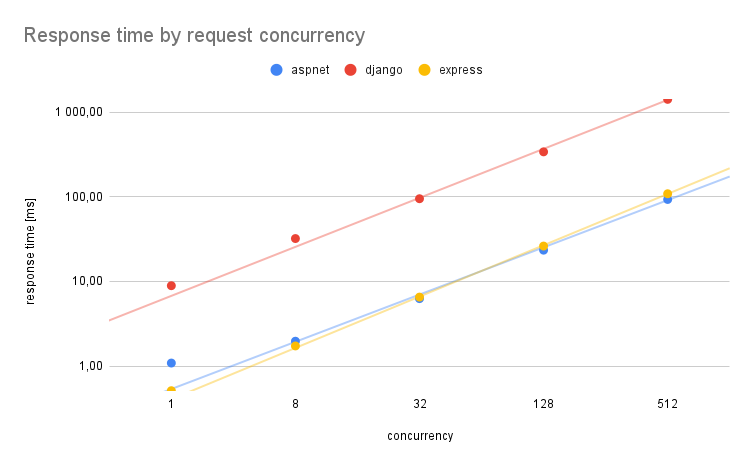
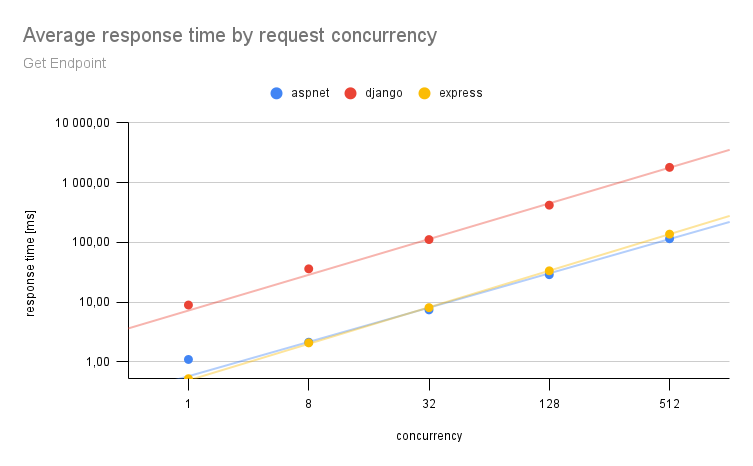
16.06

diff --git a/6Results.tex b/6Results.tex
@@ -4,28 +4,26 @@
 
 \section{Performance}
 
-WIP
+Graphs below (\ref{tab:resultsGet}, \ref{tab:resultsGetMany}, \ref{tab:resultsDelete}, \ref{tab:resultsPost} and \ref{tab:resultsPut}) show an average response time in miliseconds by number of concurrent \acrshort{vu}s from the tests mentioned in previous chapters. To better show the results of the tests, on vertical axis a logarithmic scale has been used, as Django had very long response times in comparison to other two frameworks. Under each graph there is a table with data used to draw the mentioned graphs - average response times rounded to second decimal place. As seen on the results, in cases with small amount concurrent requests Express.js application was the fastest. Starting from 32 \acrlong{vu}s for get requests, 128 for post and put requests and 512 for getMany ASP.NET Core has faster results. The trend line in all charts (except for delete tests, where ASP.NET is slower than express in all tests by from 8\% to 49\% depending on concurrency) shows that Express.js handles bigger loads worse than ASP.NET. In most tests Django stands out very far from the others, being even up to almost 17 times slower (for get tests with 8 concurrency) than the opponents. This framework surprised on getMany tests, where it was slower by only 15\% than the second best result - ASP.NET. 
 
-% Table \ref{tab:resultsFromFile} shows an average response time from the 10 tests mentioned in the previous chapters.
+\input{figures/resultsGet.tex}
+\input{tables/resultsGet.tex}
 
-% \input{figures/resultsDelete.tex}
-% \input{tables/resultsDelete.tex}
+\input{figures/resultsGetMany.tex}
+\input{tables/resultsGetMany.tex}
 
-% \input{figures/resultsGet.tex}
-% \input{tables/resultsGet.tex}
+\input{figures/resultsDelete.tex}
+\input{tables/resultsDelete.tex}
 
-% \input{figures/resultsGetMany.tex}
-% \input{tables/resultsGetMany.tex}
+\input{figures/resultsPost.tex}
+\input{tables/resultsPost.tex}
 
-% \input{figures/resultsPost.tex}
-% \input{tables/resultsPost.tex}
-
-% \input{figures/resultsPut.tex}
-% \input{tables/resultsPut.tex}
+\input{figures/resultsPut.tex}
+\input{tables/resultsPut.tex}
 
 \section{Security}
 \subsection{Security Misconfiguration}
-\subsubsection{Django}
+\subsubsection{Django specific variables}
 Django has one configuration file, generated automatically at the project creation. At the starting lines of settings.py a few important variables and comments are placed (listing \ref{lst:djangoSettings}).
 \input{listings/djangoSettings.tex}.
 As we can see, the creators of Django clearly want the developers to prevent some security vulnerabilities, by placing \lstinline{SECURITY WARNING} comments above two crucial variables - \lstinline{SECRET_KEY} and \lstinline{DEBUG}.
@@ -50,9 +48,10 @@ Django developers thought about it being a little secure in case of accidental l
     \item 'SIGNATURE'
     \item 'TOKEN'
 \end{itemize}
-% TODO show a screen where if(id === 10): admin = True
+% TODO show a screen where if(id === 10): admin = True 
+% coś jak to https://www.troyhunt.com/content/images/2016/02/848847image11.png
 
-Third important variable that cannot be forgotten is \lstinline{ALLOWED_HOSTS} (without \lstinline{SECURITY WARNING} comment, as it is set to an empty array by default). This variable is meant to be a list of strings presenting host names that Django can send responses to. If a given host is not on the list and tries to request a resource, response with status 400 is sent immediately. When \lstinline{DEBUG} is set to True and this variable is empty, the only way to reach the app is by requesting localhost.
+Third important variable that cannot be forgotten is \lstinline{ALLOWED_HOSTS} (without \lstinline{SECURITY WARNING} comment, as it is set to an empty array by default). This variable is meant to be a list of strings presenting host names that Django can send responses to. If a given host is not on the list and tries to request a resource, response with status 400 is sent immediately. When \lstinline{DEBUG} is set to True and this variable is empty, the only way to get response from the app is by requesting localhost.
 
 To help the developers, Django offers a command \lstinline{python3 manage.py check --deploy} command.
 \input{listings/djangoCheckDeploy.tex}
@@ -60,7 +59,21 @@ To help the developers, Django offers a command \lstinline{python3 manage.py che
 % python3 manage.py check --deploy
 % https://hdivsecurity.com/owasp-security-misconfiguration
 \subsubsection{ASP.NET}
-\subsubsection{Express.js}
+
+Just like Django, ASP.NET can leak sensitive data placed in code with its default error handling.
+
+% TODO prepare a screen and write about it https://www.troyhunt.com/owasp-top-10-for-net-developers-part-6/
+
+\subsubsection{Common}
+\begin{itemize}
+    \item Use newest versions
+    % https://snyk.io/vuln/
+    \item Don't configure to run as root
+    \item limit request body size
+    \item tls/ssl
+    % https://nodegoat.herokuapp.com/tutorial/a5
+\end{itemize}
+
 \subsection{Injection}
 \subsubsection{Django}
 \subsubsection{ASP.NET}

diff --git a/tables/resultsGetMany.tex b/tables/resultsGetMany.tex
@@ -1,14 +1,14 @@
 \FloatBarrier
 \begin{table}[!htp]\centering
-    \caption{Average p(95) response time in tests}\label{tab:resultsGetMany}
+    \caption{Numeric results from get many tests}\label{tab:resultsGetMany}
     \scriptsize
     \begin{tabular}{lrrrrr}\toprule
         test    & concurrency & aspnet & django    & express \\\midrule
-        getMany & 1           & 47.75  & 54.77     & 10.37   \\
-        getMany & 8           & 42.03  & 267.56    & 11.72   \\
-        getMany & 32          & 62.94  & 979.83    & 25.03   \\
-        getMany & 128         & 112.69 & 3,897.61  & 69.38   \\
-        getMany & 512         & 273.04 & 15,952.84 & 252.17  \\
+getMany &1 &15.09 &17.42 &8.66 \\
+getMany &8 &18.72 &70.49 &11.55 \\
+getMany &32 &39.03 &232.02 &26.50 \\
+getMany &128 &91.29 &898.69 &81.19 \\
+getMany &512 &243.49 &3,898.93 &314.52 \\
         \bottomrule
     \end{tabular}
 \end{table}

diff --git a/tables/resultsDelete.tex b/tables/resultsDelete.tex
@@ -1,14 +1,14 @@
 \FloatBarrier
 \begin{table}[!htp]\centering
-    \caption{Average p(95) response time in tests}\label{tab:resultsDelete}
+    \caption{Numeric results from delete tests}\label{tab:resultsDelete}
     \scriptsize
     \begin{tabular}{lrrrrr}\toprule
         test   & concurrency & aspnet & django   & express \\\midrule
-        delete & 1           & 3.11   & 10.30    & 2.07    \\
-        delete & 8           & 3.76   & 39.81    & 3.34    \\
-        delete & 32          & 11.77  & 125.11   & 10.36   \\
-        delete & 128         & 45.53  & 461.95   & 40.98   \\
-        delete & 512         & 176.82 & 1,879.71 & 161.20  \\
+delete &1 &3.08 &10.28 &2.06 \\
+delete &8 &3.91 &45.90 &3.59 \\
+delete &32 &12.90 &147.01 &10.86 \\
+delete &128 &50.41 &567.70 &43.33 \\
+delete &512 &204.13 &2,373.08 &175.02 \\
         \bottomrule
     \end{tabular}
 \end{table}

diff --git a/tables/resultsPost.tex b/tables/resultsPost.tex
@@ -1,14 +1,14 @@
 \FloatBarrier
 \begin{table}[!htp]\centering
-    \caption{Average p(95) response time in tests}\label{tab:resultsPost}
+    \caption{Numeric results from post tests}\label{tab:resultsPost}
     \scriptsize
     \begin{tabular}{lrrrrr}\toprule
         test & concurrency & aspnet & django   & express \\\midrule
-        post & 1           & 2.64   & 10.01    & 1.96    \\
-        post & 8           & 3.23   & 39.15    & 2.85    \\
-        post & 32          & 8.76   & 122.65   & 8.88    \\
-        post & 128         & 33.33  & 456.62   & 35.03   \\
-        post & 512         & 127.33 & 1,894.51 & 139.06  \\
+post &1 &2.64 &10.06 &1.96 \\
+post &8 &3.29 &45.23 &3.02 \\
+post &32 &12.44 &146.03 &10.10 \\
+post &128 &38.54 &564.70 &40.40 \\
+post &512 &150.11 &2,360.03 &165.16 \\
         \bottomrule
     \end{tabular}
 \end{table}

diff --git a/tables/resultsPut.tex b/tables/resultsPut.tex
@@ -1,14 +1,14 @@
 \FloatBarrier
 \begin{table}[!htp]\centering
-    \caption{Average p(95) response time in tests}\label{tab:resultsPut}
+    \caption{Numeric results from put tests}\label{tab:resultsPut}
     \scriptsize
     \begin{tabular}{lrrrrr}\toprule
         test & concurrency & aspnet & django   & express \\\midrule
-        put  & 1           & 3.30   & 11.44    & 2.34    \\
-        put  & 8           & 4.08   & 45.78    & 3.73    \\
-        put  & 32          & 12.10  & 146.66   & 12.25   \\
-        put  & 128         & 47.18  & 551.59   & 48.27   \\
-        put  & 512         & 184.42 & 2,268.39 & 192.83  \\
+put &1 &3.31 &11.41 &2.35 \\
+put &8 &4.30 &52.00 &4.04 \\
+put &32 &13.98 &174.60 &13.65 \\
+put &128 &54.19 &680.64 &54.28 \\
+put &512 &213.52 &2,891.46 &221.57 \\
         \bottomrule
     \end{tabular}
 \end{table}

diff --git a/tables/resultsGet.tex b/tables/resultsGet.tex
@@ -1,14 +1,14 @@
 \FloatBarrier
 \begin{table}[!htp]\centering
-    \caption{Average p(95) response time in tests}\label{tab:resultsGet}
+    \caption{Numeric results from get tests}\label{tab:resultsGet}
     \scriptsize
     \begin{tabular}{lrrrrr}\toprule
         test & concurrency & aspnet & django   & express \\\midrule
-        get  & 1           & 1.09   & 8.90     & 0.51    \\
-        get  & 8           & 1.97   & 32.06    & 1.73    \\
-        get  & 32          & 6.26   & 94.71    & 6.52    \\
-        get  & 128         & 23.38  & 338.88   & 26.14   \\
-        get  & 512         & 92.81  & 1,411.91 & 108.42  \\
+get &1 &1.09 &8.91 &0.52 \\
+get &8 &2.12 &35.94 &2.07 \\
+get &32 &7.39 &111.15 &8.05 \\
+get &128 &28.69 &418.76 &33.29 \\
+get &512 &114.71 &1,797.83 &136.98 \\
         \bottomrule
     \end{tabular}
 \end{table}

diff --git a/figures/resultsGetMany.tex b/figures/resultsGetMany.tex
@@ -1,5 +1,5 @@
 \begin{figure}[H]
     \includegraphics[width=\columnwidth]{figures/pictures/resultsGetMany.png}
-    \caption{Numeric results from get many tests}
+    \caption{Average response time in getMany tests}
     \label{fig:resultsGetMany}
 \end{figure}

diff --git a/figures/resultsDelete.tex b/figures/resultsDelete.tex
@@ -1,5 +1,5 @@
 \begin{figure}[H]
     \includegraphics[width=\columnwidth]{figures/pictures/resultsDelete.png}
-    \caption{Numeric results from delete tests}
+    \caption{Average response time in delete tests}
     \label{fig:resultsDelete}
 \end{figure}

diff --git a/figures/resultsPost.tex b/figures/resultsPost.tex
@@ -1,5 +1,5 @@
 \begin{figure}[H]
     \includegraphics[width=\columnwidth]{figures/pictures/resultsPost.png}
-    \caption{Numeric results from post tests}
+    \caption{Average response time in post tests}
     \label{fig:resultsPost}
 \end{figure}

diff --git a/figures/resultsGet.tex b/figures/resultsGet.tex
@@ -1,5 +1,5 @@
 \begin{figure}[H]
     \includegraphics[width=\columnwidth]{figures/pictures/resultsGet.png}
-    \caption{Numeric results from get tests}
+    \caption{Average response time in get tests}
     \label{fig:resultsGet}
 \end{figure}

diff --git a/figures/resultsPut.tex b/figures/resultsPut.tex
@@ -1,5 +1,5 @@
 \begin{figure}[H]
     \includegraphics[width=\columnwidth]{figures/pictures/resultsPut.png}
-    \caption{Numeric results from put tests}
+    \caption{Average response time in put tests}
     \label{fig:resultsPut}
 \end{figure}

diff --git a/7Conclusion.tex b/7Conclusion.tex
@@ -1,3 +1,5 @@
 % !TeX root = ./0Base.tex
 
 \chapter{Conclusion}
+
+% https://neoteric.eu/blog/node-js-vs-python/
